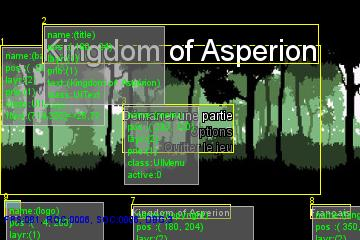
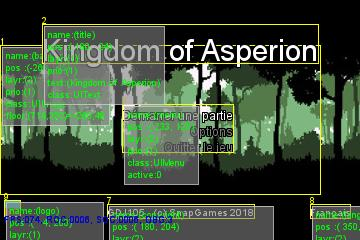
bugfix(copyright) change copyright message at screen's  bottom
- update and reorganize the `README.md` file with some good screenshots
with better details,
- update the sreenshots into the `/src/main/docs` path.

Fix #19

diff --git a/src/main/java/com/snapgames/gdj/gdj105/TitleState.java b/src/main/java/com/snapgames/gdj/gdj105/TitleState.java
@@ -95,7 +95,7 @@ public class TitleState extends AbstractGameState {
 
 		UIText cpyText = new UIText("copyright", (int) (Game.WIDTH) / 2, (int) (Game.HEIGHT * 0.85f), copyrightLabel,
 				copyFont, 2, 1, Color.WHITE, TextPosition.CENTER);
-		cpyText.setLabel(Labels.GAME_TITLE.getKey());
+		cpyText.setLabel(Labels.COPYRIGHT.getKey());
 		addObject(cpyText);
 
 		UIText lngText = new UIText("language", (int) (Game.WIDTH) - 10, (int) (Game.HEIGHT * 0.85f), copyrightLabel,

diff --git a/README.md b/README.md
@@ -55,21 +55,13 @@ Import this project as an Existing Maven Project into your preferred IDE,
 
 Here are some screenshots from the Title screen from the `TitleState`:
 
-![TitleState without debug information](src/main/docs/images/gdj105-screenshot-titlestate.jpg "TitleState without debug information")
-![TitleState with some debug information](src/main/docs/images/gdj105-screenshot-titlestate-debug-2.jpg "TitleState without debug information")
-![TitleState with to much debug information](src/main/docs/images/gdj105-screenshot-titlestate-debug-3.jpg "TitleState with to much debug information") 
+![TitleState without debug information](src/main/docs/images/gdj105-screenshot-titlestate-english.jpg "TitleState without debug information")
 
-- Just press the <kbd>SPACE</kbd>/<kbd>ENTER</kbd> to start the demo,
+#### Debug mode
+
+Some debug information can be displayed according to the debug level you've chosen:
+
 - <kbd>D</kbd> / <kbd>F9</kbd> switch between DEBUG modes 
-- Use the <kbd>L</kbd> key to switch between available languages:
-    - <code>EN</code> for English,
-    - <code>FR</code> for French,
-    - <code>DE</code> for Deutch,
-    - <code>ES</code> for Spanish,
-    - <code>IT</code> for Italian.
-
-
-**Debug display mode**
 
 | Mode  | Description                                                                                        |
 |:-----:|:---------------------------------------------------------------------------------------------------|
@@ -77,6 +69,34 @@ Here are some screenshots from the Title screen from the `TitleState`:
 | **2**	| Display yellow squares and highlight the moving direction with a green line on the direction side, |
 | **3**	| Show full of information in a panel for each active object (default).                              |
 
+
+##### Debug Level 1
+
+![TitleState with some debug information](src/main/docs/images/gdj105-screenshot-titlestate-debug-1.jpg "TitleState without debug information")
+
+##### Debug level 3
+
+![TitleState with to much debug information](src/main/docs/images/gdj105-screenshot-titlestate-debug-3.jpg "TitleState with to much debug information") 
+
+#### Switch between Languages
+
+- Use the <kbd>L</kbd> key to switch between available languages:
+    - <code>EN</code> for English,
+    - <code>FR</code> for French,
+    - <code>DE</code> for Deutch,
+    - <code>ES</code> for Spanish,
+    - <code>IT</code> for Italian.
+
+![TitleState with some debug information](src/main/docs/images/gdj105-screenshot-titlestate-english.jpg "TitleState without debug information")
+
+![TitleState with some debug information](src/main/docs/images/gdj105-screenshot-titlestate-german.jpg "TitleState without debug information")
+
+![TitleState with some debug information](src/main/docs/images/gdj105-screenshot-titlestate-french.jpg "TitleState without debug information")
+
+#### Take a snapshot
+
+you can at any time push the <kbd>S</kbd> key to take a snapshot.
+This instance jpeg picture of the game window will be saved to the `~/user`directory as a default path.
 
 Have Fun !
 
